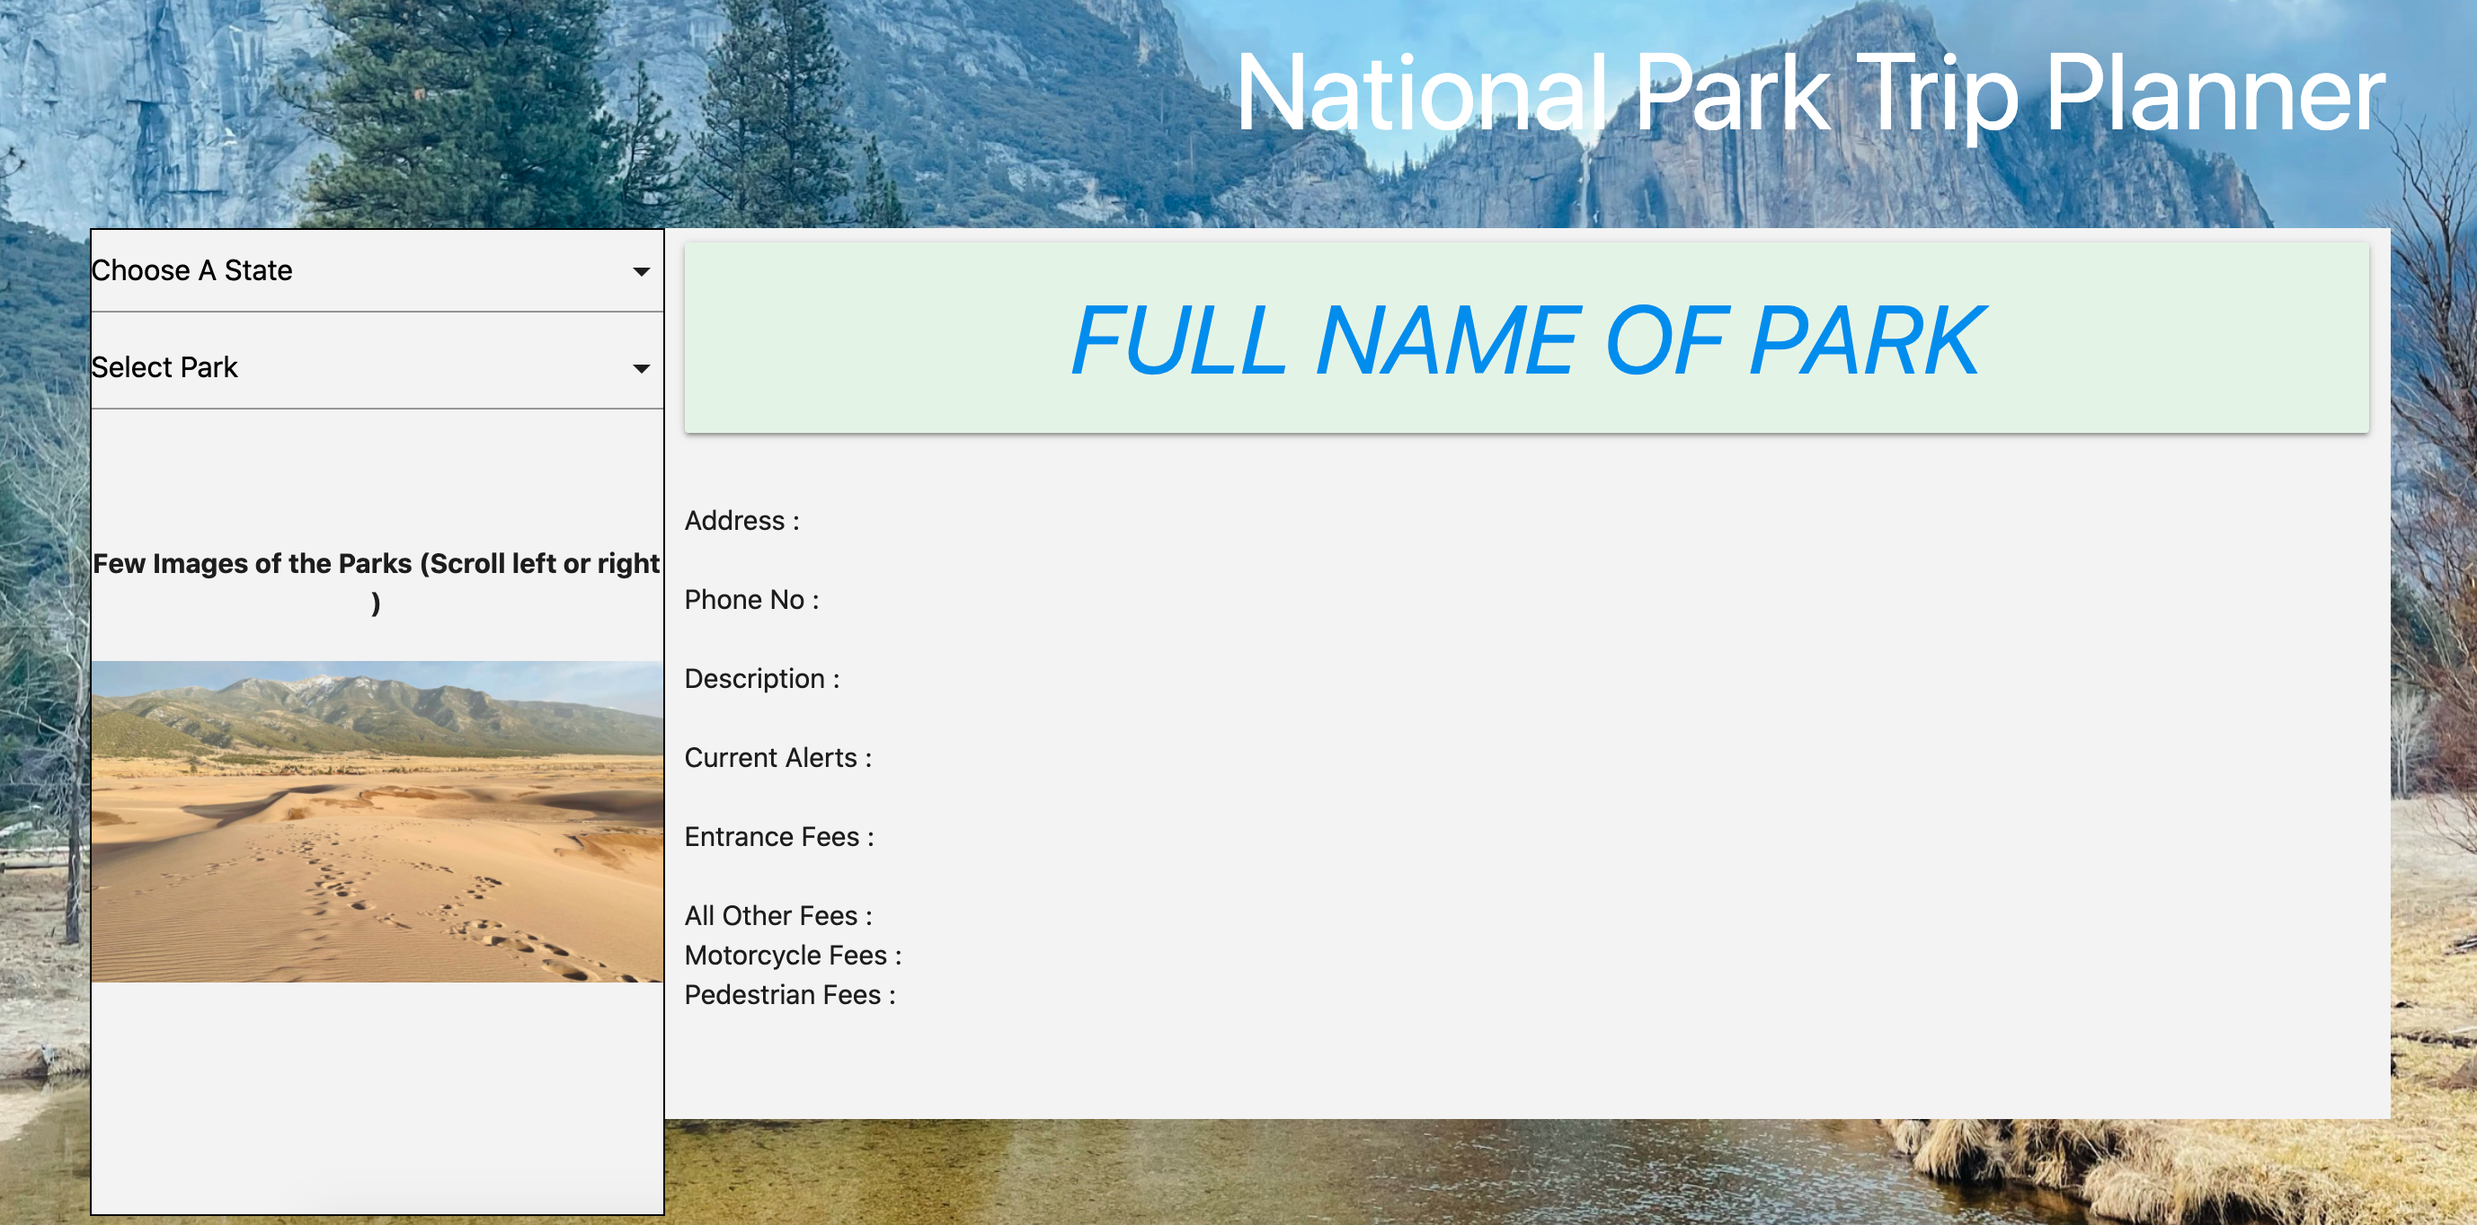
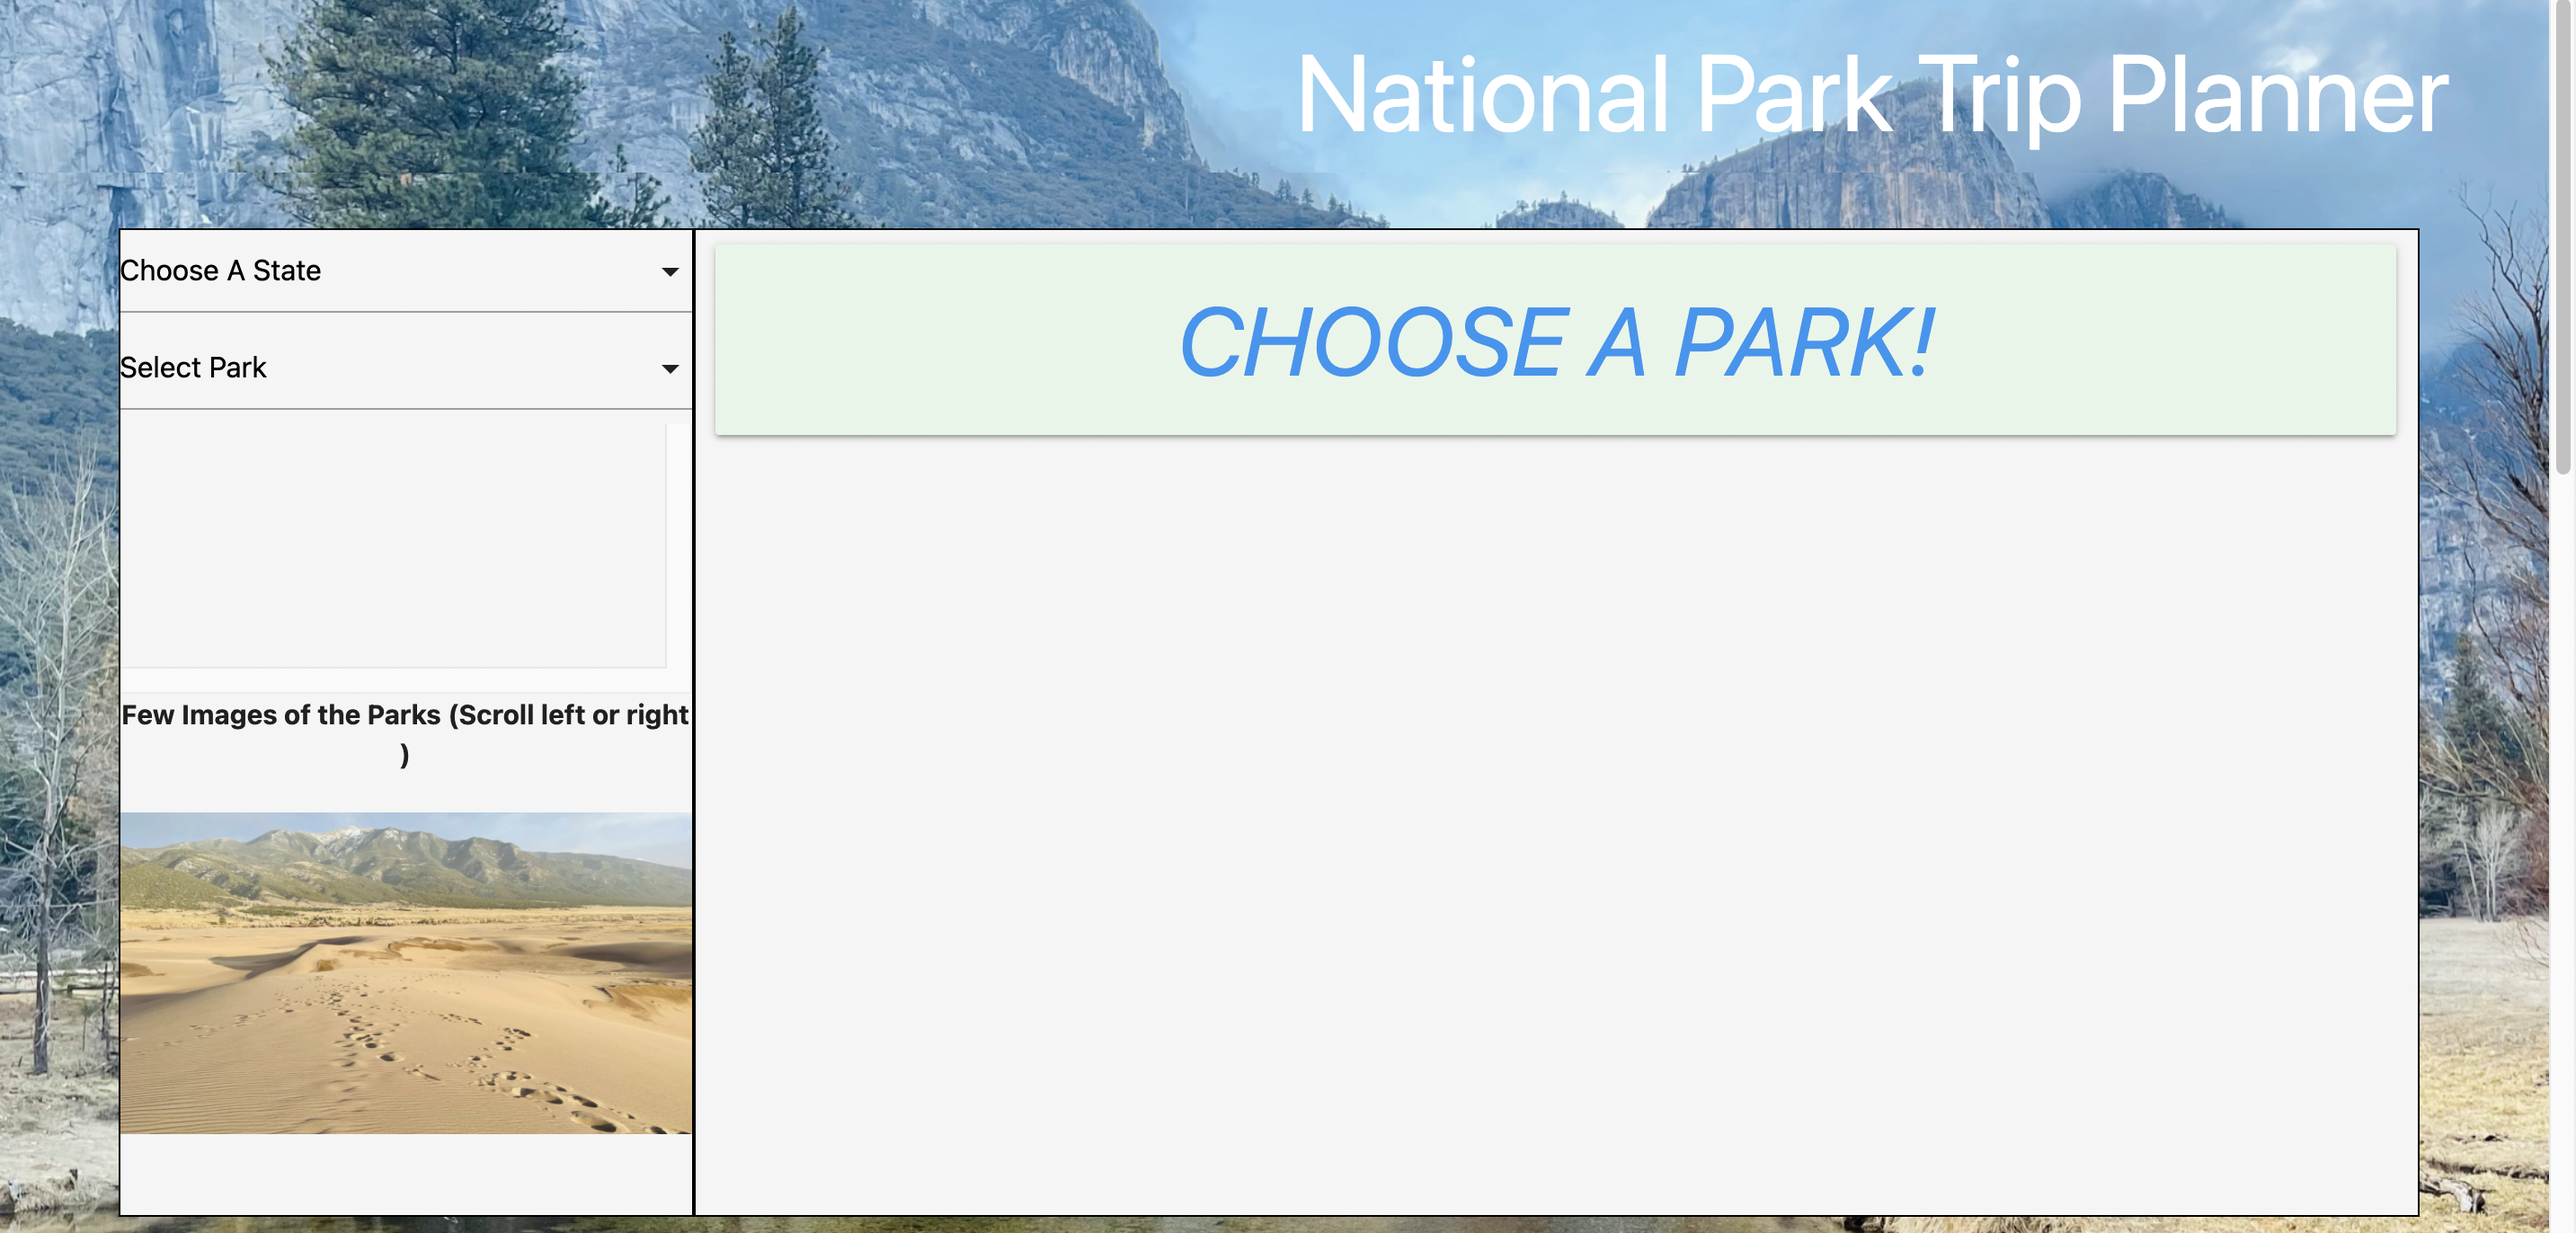
Added Scrollable Search History

diff --git a/index.html b/index.html
@@ -20,6 +20,7 @@
         <div class="row">
             <div class="col s2 m3 l3 grey lighten-4" id="formContainer">
                 <form class="row">
+                    <!-- Dynamic/Dependent Dropdowns -->
                     <select id="stateS" name="states" class="dropdown-content">
                         <option value="0">Choose A State</option>
                         <option value="az">Arizona</option>
@@ -33,8 +34,9 @@
                     <select id="mySelect">
                         <option value="">Select Park</option>
                     </select>
+                    <div><p id="searchHistory">Search History</p></div>
                     <div id="parks"></div>
-                    <div class="textAbove">Few Images of the Parks (Scroll left or right )</div> <br>
+                    <div class="textAbove">Few Images of the Parks (Hold and Scroll Left or Right )</div> <br>
                     <div class="carousel carousel-slider" id="Carousal">
                         <a class="carousel-item" href="#one!"><img src="./assets/images/pic1.JPEG"></a>
                         <a class="carousel-item" href="#two!"><img src="./assets/images/pic2.JPEG"></a>
@@ -44,6 +46,7 @@
                     </div>
                 </form>
             </div>
+            <!-- Park Information Page -->
             <div class="col s2 m5 l9 grey lighten-4">
                 <h2 class="card-panel green lighten-5 blue-text" id="parkInfo" style="text-transform:uppercase">
                     Choose A Park!</h2>
@@ -90,12 +93,8 @@
         <iframe width="560" height="315" src="https://www.youtube.com/embed/qkblKgmLfvQ" frameborder="0"
             allowfullscreen></iframe>
 
-
-
         <iframe width="560" height="315" src="https://www.youtube.com/embed/5PsOtmMjTyA" frameborder="0"
             allowfullscreen></iframe>
-
-
 
         <iframe width="560" height="315" src="https://www.youtube.com/embed/ctaB4OqO3BY" frameborder="0"
             allowfullscreen></iframe>

diff --git a/assets/js/script.js b/assets/js/script.js
@@ -9,7 +9,7 @@ var parkContainer = $("#parks");
 $(document).ready(function () {
     //inititiating Materialize Select
     $('select').formSelect();
-    //Select States
+    //Dynamic/Dependent Dropdowns
     $("#stateS").change(function () {
         var val = $(this).val();
         if (val == "az") {
@@ -45,12 +45,9 @@ $(document).ready(function () {
     //Backstretch Plugin
     $.backstretch("./assets/images/pic2.JPEG");
 
-    
-
-    
 });
 
-//Functions for Localstorage 
+//Functions for Localstorage / Search History
 displayParks();
 
 function displayParks() {
@@ -68,6 +65,7 @@ function displayParks() {
     }
 
 }
+// Display Park And Weather Info When Click Search History Button
 $(document).on("click", ".btnCode",function(){
     var btnVal = $(this).val();
     console.log(btnVal);
@@ -90,15 +88,16 @@ function addPark(parkCode) {
         parkObject.parkName = $("#parkInfo").text();
         console.log($("#parkInfo").text());
         parkObject.parkCode = parkCode;
-        if(savedParks.length < 5){
+        if(savedParks.length < 25){
             savedParks.push(parkObject);
+        
         // console.log(savedPark);
         localStorage.setItem("savedHistory", JSON.stringify(savedParks));
         }
     }
 }
 
-
+// Function For Fetching Park Info
 function init(parkCode) {
     if (parkCode == '0' || parkCode == undefined) {
         return;
@@ -134,7 +133,7 @@ function init(parkCode) {
         })
     })
 }
-//Second API for Weather API
+//Function For Displaying Weather Info
 function weatherAPI(zip) {
     fetch("https://api.openweathermap.org/data/2.5/forecast?zip="
         + zip

diff --git a/assets/css/style.css b/assets/css/style.css
@@ -20,6 +20,17 @@ header {
 #formContainer {
   max-height: 550px;
 }
+#searchHistory{
+  font-family: Arial, Helvetica, sans-serif;
+  font-size: 16px;
+}
+
+#parks {
+  height: 150px;
+  overflow: scroll;
+  background: none;
+  width: 100%;
+}
 .btnCode {
   margin-bottom: 2.5px;
   width: 100%;

diff --git a/README.md b/README.md
@@ -15,7 +15,7 @@ National Park Trip Planner is an application that provides crucial information i
 * DOM Manipulation
 * JQuery
 * Materialize
-* Moment.js
+* Day.js
 
 ## API used
 
